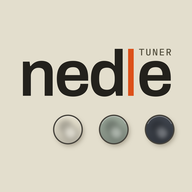
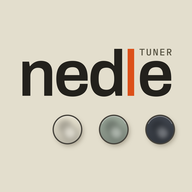
Ícone com o l na espessura nova
Claude-Session: https://claude.ai/code/session_01LGDWBDeo74QiZbRsDJfg8z

diff --git a/sw.js b/sw.js
@@ -1,6 +1,6 @@
 // Guarda o app no iPhone para abrir mesmo sem internet.
 // Ao publicar uma versão nova, troque o número abaixo para o iPhone baixar de novo.
-const VERSAO = "nedle-14";
+const VERSAO = "nedle-15";
 const ARQUIVOS = ["./", "index.html", "manifest.webmanifest", "icone-180.png", "icone-192.png", "icone-512.png"];
 
 self.addEventListener("install", e => {
